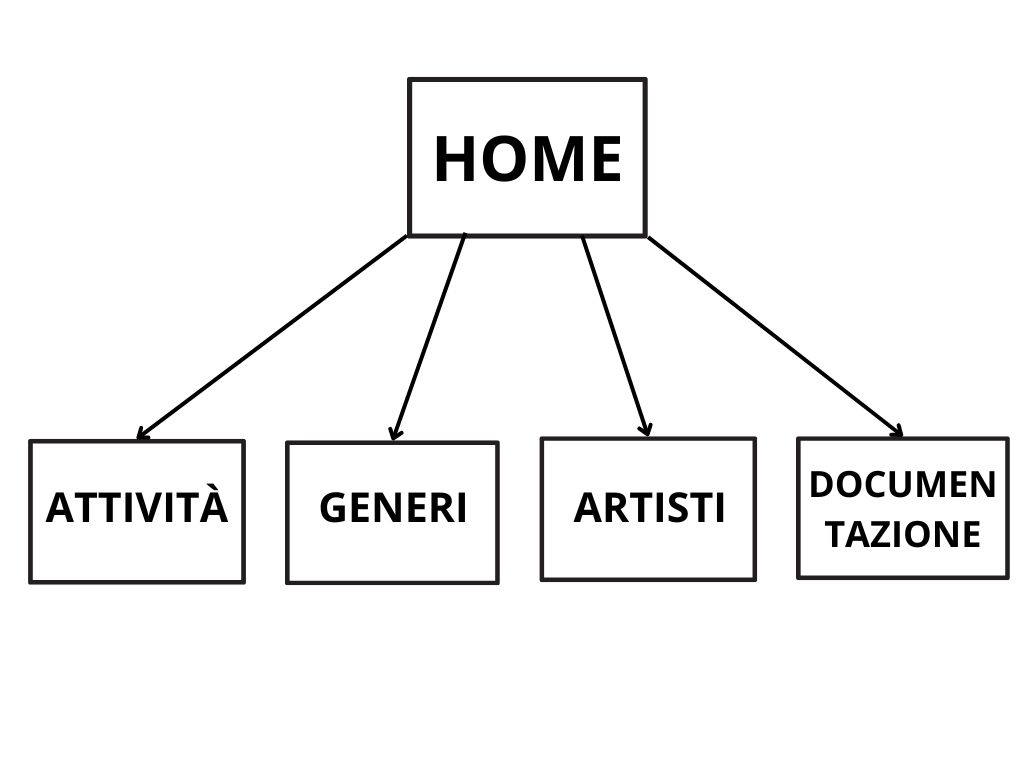
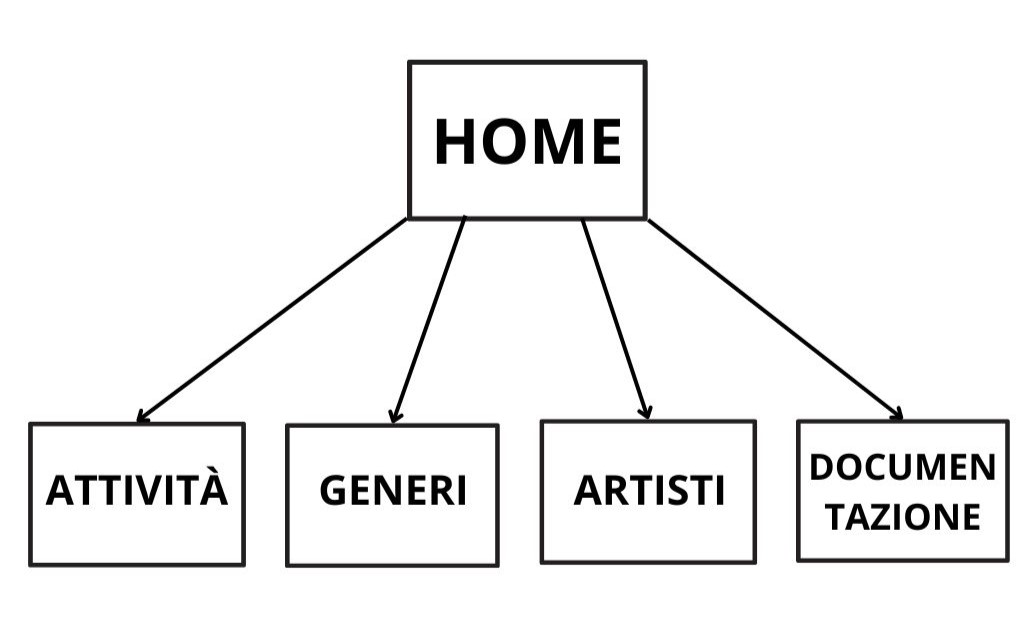
valutazione risultati aggiunta

diff --git a/documentazione.html b/documentazione.html
@@ -9,7 +9,7 @@
   })(window,document,'script','dataLayer','GTM-PKL6476');</script>
   <!-- End Google Tag Manager -->
         <title>YourMelody</title>
-        <link rel="shortcut icon" href="img/logo2.jpg" type="image/x-icon">
+        <link rel="shortcut icon" href="img/favicon.jpg" type="image/x-icon">
         <meta charset="utf">
         <!-- Bootstrap CSS -->
         <link rel="stylesheet" href="https://stackpath.bootstrapcdn.com/bootstrap/4.3.1/css/bootstrap.min.css">
@@ -62,24 +62,24 @@
             <h4>Project Management Plan</h4>
             <h5>Benchmarking</h5>
               <h6>Obiettivi e temi</h6> <p class="paragrafosize marginedocumentazione">I temi del progetto sono la musica e l'allenamento.</p>
-                <p class="paragrafosize marginedocumentazione">La scienza ha constatato che la musica è l'alleata perfetta per affrontare un allenamento. Il sito ha l'obiettivo primario di aiutare e guidare le persone in ogni fase del loro allenamento, stimolando la scelta del genere muicale più adatto ai loro gusti e al tipo di attività in corso.</p>
-                <p class="paragrafosize marginedocumentazione">Inoltre, il sito ha anche lo scopo di divulgare informazioni sull'efficacia della musica nel ridurre lo sforzo percepito e aumentare la motivazione.</p>
+                <p class="paragrafosize marginedocumentazione">La musica è l'alleata perfetta per affrontare un allenamento. Il sito ha l'obiettivo di guidare le persone in ogni fase dell'allenamento, proponendo il genere muicale più adatto ai loro gusti e al tipo di attività in corso.</p>
+                <p class="paragrafosize marginedocumentazione">Il sito ha l'ulteriore scopo di informare sull'efficacia della musica nel ridurre lo sforzo percepito e aumentare la motivazione.</p>
               <h6>Target utente</h6>
-                <p class="paragrafosize marginedocumentazione">Il sito è rivolto in particolar modo agli under 30, studenti o giovani lavoratori, a cui piace la musica e che sviluppano interesse per lo sport e per uno stile di vita sano.</p>
+                <p class="paragrafosize marginedocumentazione">Il sito è rivolto agli under 30, studenti o giovani lavoratori, che sviluppano interesse per la musica, lo sport e per uno stile di vita sano.</p>
               <h6>Competitors</h6>
-                <p class="paragrafosize marginedocumentazione">I siti più conosciuti che affrontano la medesima tematica, qualificandosi come miei competitors, sono Spotify, Deezer e Soundcloud.</p> 
+                <p class="paragrafosize marginedocumentazione">I siti più conosciuti che affrontano le tematiche musica e allenamento sono Spotify, Deezer e Soundcloud.</p> 
                 <p class="paragrafosize marginedocumentazione">I siti menzionati mettono a disposizione dell'utente playlist per il workout.</p>
-                <p class="paragrafosize marginedocumentazione">In tutti e tre i competitors la categoria "allenamento" è una delle tante e non è visibile dalla homepage: è necessaria una ricerca specifica. In Spotify e Deezer è possibile filtrare i risultati, principalmente per attività o genere musicale. Soundclound mostra soltanto le playlist che contengono "allenamento" nel proprio nominativo.</p>
-                <p class="paragrafosize marginedocumentazione">Spotify offre la possibilità di ascoltare playlist di altri oppure crearne delle proprie. Solo abbonandosi a Spotify Premium è possibile scaricare la musica, evitare la pubblicità, ascoltare qualsiasi brano anche su dispositivo mobile e avere skip illimitati (gratis è permessa la riproduzione casuale). I risultati sono personalizzati sulla base delle precedenti scelte dell'utente e la suddivisione dei brani proposta è principalmente per genere musicale.</p>
+                <p class="paragrafosize marginedocumentazione">In tutti e tre i competitors la categoria "allenamento" è una delle tante e non è visibile dalla homepage: è necessaria una ricerca specifica. In Spotify e Deezer è possibile filtrare i risultati, per attività o genere musicale. Soundclound mostra soltanto le playlist che contengono "allenamento" nel proprio nominativo.</p>
+                <p class="paragrafosize marginedocumentazione">Spotify offre la possibilità di ascoltare playlist di altri oppure crearne delle proprie. Solo abbonandosi è possibile scaricare la musica, evitare la pubblicità, ascoltare qualsiasi brano anche su dispositivo mobile e avere skip illimitati. I risultati sono personalizzati e la suddivisione dei brani proposta è principalmente per genere musicale.</p>
                 <p class="paragrafosize marginedocumentazione">In Deezer le playlist della categoria workout sono suddivise per obiettivi di allenamento, tipo di attività o genere musicale, artisti o colonne sonore dei film. Deezer Premium elimina la pubblicità, aggiunge l'ascolto offline e la scelta e l'ascolto di qualsiasi brano.</p>
                 <p class="paragrafosize marginedocumentazione">Il catalogo musicale di Soundcloud comprende musica di nicchia, di autori non conosciuti e remix. L'accesso all'offerta musicale completa è subordinato alla stipulazione di un abbonamento.</p> 
-                <p class="paragrafosize marginedocumentazione">Per valutare l'offerta dei miei competitors utilizzerò la scala Likert, che va da un punteggio minimo di 1 (per nulla soddisfacente) a un massimo di 5 (molto soddisfacente) e mi baserò su tre parametri: aspetto tematico, servizi e usabilità.</p>
-                <p class="paragrafosize marginedocumentazione">Aspetto tematico: 5, il catalogo musicale dei competitors è ampissimo; ricercando un brano si ha elevate possibilità di trovarlo.</p> 
-                <p class="paragrafosize marginedocumentazione">Servizi: 4, i servizi sono completi, efficienti e veloci, l'utente ha numerose possibilità di scelta. I servizi e le possibilità migliori sono a pagamento. </p>
-                <p class="paragrafosize marginedocumentazione">Usabilità: 2, i siti sono generalisti, molto ampi, tanto da risultare dispersivi e confusionari. A livello comunicativo i siti presentano suddivisioni sovrabbondanti, poco chiare e troppe categorie, non subito raggiungibili. Sono perfetti per chi ama ascoltare musica in generale, ma non per chi vuole utilizzarla per uno scopo preciso.</p>
+                <p class="paragrafosize marginedocumentazione">Per valutare l'offerta dei competitors utilizzerò la scala Likert, che va da un punteggio minimo di 1 (per nulla soddisfacente) a un massimo di 5 (molto soddisfacente), sulla base di tre parametri: aspetto tematico, servizi e usabilità.</p>
+                <p class="paragrafosize marginedocumentazione">Aspetto tematico: 5, il catalogo musicale è vastissimo.</p> 
+                <p class="paragrafosize marginedocumentazione">Servizi: 4, i servizi sono completi ed efficienti; i servizi migliori sono a pagamento. </p>
+                <p class="paragrafosize marginedocumentazione">Usabilità: 2, i siti sono molto ampi, tanto da risultare dispersivi. A livello comunicativo presentano troppe suddivisioni e categorie, poco chiare e non subito raggiungibili. Sono perfetti per chi ama ascoltare musica in generale, ma non per chi vuole utilizzarla per uno scopo preciso.</p>
             <h5>Struttura e layout</h5>
               <h6>Architettura del sito</h6>
-                <p class="paragrafosize marginedocumentazione">L'organizzazione del sito è ad albero. Per rendere il sito semplice e usabile, ho scelto una struttura poco profonda: dalla homepage (la radice dell'albero) si possono raggiungere tutte le altre pagine.</p>
+                <p class="paragrafosize marginedocumentazione">Per rendere il sito semplice e usabile, ho scelto di organizzare il sito in una struttura ad albero poco profonda: dalla homepage (la radice dell'albero) si possono raggiungere tutte le altre pagine.</p>
                 <section id="sectionarchitettura">
                   <img id="architettura" src="img/architetturasito.jpg" alt="struttura ad albero del sito">
                 </section>
@@ -115,40 +115,68 @@
                 </div>
                   
               <h6>Look and feel</h6>
-                <p class="paragrafosize marginedocumentazione">Le scelte grafiche hanno l'obiettivo di migliorare la leggibilità del sito.</p> 
-                <p class="paragrafosize marginedocumentazione">Ho impostato un'interlinea di 1.5; ho utilizzato un font sans serif, di impatto e semplice, per i titoli e un font serif, che agevola la lettura, per i paragrafi.</p>
+                <p class="paragrafosize marginedocumentazione">Le scelte grafiche hanno l'obiettivo di migliorare la leggibilità e l'usabilità del sito.</p> 
+                <p class="paragrafosize marginedocumentazione">Ho utilizzato un'interlinea di 1.5em, un font sans serif di impatto e semplice per i titoli e un font serif per i paragrafi per velocizzare la lettura.</p>
                 <p class="paragrafosize marginedocumentazione">Ho creato contrasto tra sfondo e scritte: mi sono servita di colori scuri (nero e viola) per le scritte e chiari (bianco e lilla) per lo sfondo. </p>
-                <p class="paragrafosize marginedocumentazione">La brand identity è creata mediante i colori lilla e viola, in modo da differenziarsi dal verde di Spotify e dall'arancione di SoundCloud.</p>
-                <p class="paragrafosize marginedocumentazione">Ho intervallato elementi testuali con elementi multimediali, come playlist, caroselli e card, allo scopo di non appesantire la lettura.</p>
+                <p class="paragrafosize marginedocumentazione">La brand identity è creata mediante il lilla e viola, in modo da differenziarsi dal verde di Spotify e dall'arancione di SoundCloud.</p>
+                <p class="paragrafosize marginedocumentazione">Ho intervallato elementi testuali con elementi multimediali, come playlist, caroselli e card.</p>
             <h5>Linguaggi e strumenti</h5>
-            <p class="paragrafosize marginedocumentazione">Ho fatto uso dei linguaggi HTML e CSS per la creazione del sito.</p>
-            <p class="paragrafosize marginedocumentazione">A supporto della progettazione web si sono rivelati utili alcuni strumenti tecnologici: le librerie di Bootstrap hanno ottimizzato la parte grafica e interattiva; l'inserimento di icone da Fontawesome ha permesso una maggiore chiarezza espositiva, l'icona Instagram ha reso intuitivo il collegamento al social media; i fonts di Google Fonts hanno migliorato l'estetica del sito; Google Analytics ha consentito di misurare l'andamento del sito; Github ha permesso la pubblicazione del sito.</p>
+            <p class="paragrafosize marginedocumentazione">Ho utilizzato i linguaggi HTML e CSS per la creazione del sito.</p>
+            <p class="paragrafosize marginedocumentazione">A supporto della progettazione web si sono rivelati utili i seguenti strumenti tecnologici: le librerie di Bootstrap hanno ottimizzato la grafica e l'interattività; le icone di Fontawesome hanno permesso una maggiore chiarezza espositiva, l'icona Instagram ha reso intuitivo il collegamento al social; i fonts di Google Fonts hanno migliorato l'estetica del sito; Google Analytics ha consentito di monitorare l'andamento del sito; Github ha permesso la pubblicazione.</p>
         </section>
         <section>
             <h4>Communication Strategy</h4>
             <h5>Background</h5>
-              <p class="paragrafosize marginedocumentazione">Ho scelto di colmare la mancanza sul mercato di un un sito specialistico, gratuito, che tratti esclusivamente di musica e allenamento, creando una guida per l'utente alla scelta del genere musicale perfetto. Quest'ultimo non si limita a mettere a disposizione delle playlist, ma offre informazioni e consigli che rendendono l'utente autonomo nelle scelte.</p>
-              <p class="paragrafosize marginedocumentazione">Consapevole che l'offerta dei miei competitors è già completa sotto l'aspetto tematico e dei servizi, ho scelto di concentrarmi sull'usabilità, loro punto debole, proponendo poche e chiare suddivisioni musicali: per attività, genere musicale e artista. Il sito si differenzia unendo la suddivisione in generi musicali e attività svolta: mostra i generi musicali migliori per un determinato tipo di attività.</p>
-              <p class="paragrafosize marginedocumentazione">Nei siti di playlist si riscontrano scelte grafiche standardizzate che ho scelto di riproporre in quanto utili per l'orientamento dell'utente: l'utilizzo di card con immagine e titolo e l'immagine che si sfoca al passarci sopra con il mouse.</p>
+              <p class="paragrafosize marginedocumentazione">Ho scelto di colmare la mancanza sul mercato di un un sito gratuito, specialistico che tratti esclusivamente di musica e allenamento, creando una guida alla scelta del genere musicale perfetto. Il sito non si limita a proporre playlist; il suo valore aggiunto sono le informazioni e i consigli che rendendono l'utente autonomo nelle scelte.</p>
+              <p class="paragrafosize marginedocumentazione">L'offerta dei miei competitors è già completa sotto l'aspetto tematico e dei servizi, perciò ho scelto di concentrarmi sull'usabilità, proponendo poche e chiare suddivisioni musicali: per attività, genere musicale e artista. Il sito si differenzia perchè unisce la suddivisione in generi musicali e attività svolta: mostra i generi musicali migliori per un determinato tipo di attività.</p>
+              <p class="paragrafosize marginedocumentazione">Nei siti di playlist si riscontrano scelte grafiche standardizzate che ho scelto di riproporre per facilitare l'orientamento dell'utente: l'utilizzo di card con immagine e titolo e l'immagine che si sfoca al passarci sopra con il mouse.</p>
             <h5>Obiettivi comunicativi</h5>
               <p class="paragrafosize marginedocumentazione">Il progetto ha lo scopo di promuovere uno stile di vita sano, incentivando quante più persone possibili a praticare sport.</p>
-              <p class="paragrafosize marginedocumentazione">Gli obiettivi in termini di comunicazione web che il progetto si prefigge è di raggiungere 100 visite al sito web, 50 like al post della pagina Instagram e 10 commenti positivi.</p>
+              <p class="paragrafosize marginedocumentazione">Gli obiettivi in termini di comunicazione web che il progetto si prefigge sono: raggiungere 100 visite al sito web, 50 like al post della pagina Instagram e 10 commenti positivi.</p>
             <h5>Target audience e messaggio</h5>
-              <p class="paragrafosize marginedocumentazione">Il target primario del sito sono gli studenti universitari. Secondo i dati Unicef, il 15% di questi ultimi ha un disturbo mentale, principalmente relativo ad ansia e depressione. Lo sport è un ottimo alleato per combattere questo problema: aumenta l'autostima e aiuta ad allentare le tensioni quotidiane.</p>
-              <p class="paragrafosize marginedocumentazione">Il target secondario sono i giovani lavoratori che si approcciano al mondo del fitness. Il sito può aiutarli a trovare la giusta motivazione per dedicare quel poco tempo che hanno a disposizione al loro benessere personale.</p>
-              <p class="paragrafosize marginedocumentazione">Il progetto prende in considerazione anche gli adulti tra i 30 e i 50 anni già appassionati di fitness, stimolandoli a riscoprire il divertimento nell'attività fisica, evitando di vedela come un'abitudine.</p>
-              <p class="paragrafosize marginedocumentazione">I social più adatti a raggiungere il target sono Instagram e Whatsapp. Secondo la statistica 2023 dei dati mondiali di Wearesocial, Instagram è il social più utilizzato dagli under 24. Whatsapp si trova al secondo posto per questa fascia d'età ed è il più utilizzato dagli adulti tra i 30 e i 50 anni.</p>
-              <p class="paragrafosize marginedocumentazione">Il messaggio che voglio trasmettere è che allenarsi non deve essere un dovere, ma può diventare un piacere, anche grazie alla giusta musica. Con la giusta motivazione, le persone possono scoprire una nuova passione, un nuovo modo di esprimersi e prendersi cura di se stessi.</p>
-              <p class="paragrafosize marginedocumentazione">Vorrei che tutti gli studenti universitari capiscano che non sono macchine perfette, ma persone in carne e ossa, con dei limiti naturali e delle emozioni.</p>
+              <p class="paragrafosize marginedocumentazione">Il target primario del sito sono gli studenti universitari. Secondo i dati Unicef, il 15% di questi ultimi ha un disturbo mentale, principalmente relativo ad ansia e depressione. Lo sport aumenta l'autostima e aiuta ad allentare le tensioni quotidiane.</p>
+              <p class="paragrafosize marginedocumentazione">Il target secondario sono i giovani lavoratori che si approcciano al mondo del fitness. Il sito può aiutarli a trovare la giusta motivazione per dedicare il poco tempo a disposizione al loro benessere personale.</p>
+              <p class="paragrafosize marginedocumentazione">Il progetto prende in considerazione anche gli adulti tra i 30 e i 50 anni già appassionati di fitness, stimolandoli a non vedere l'attività fisica come un'abitudine ma a riscoprire il divertimento.</p>
+              <p class="paragrafosize marginedocumentazione">I social più adatti a raggiungere il target sono Instagram e Whatsapp. Secondo la statistica 2023 di Wearesocial, Instagram è il social più utilizzato dagli under 24. Whatsapp si posiziona al secondo posto per questa fascia d'età e al primo per gli adulti tra i 30 e i 50 anni.</p>
+              <p class="paragrafosize marginedocumentazione">Il messaggio che voglio trasmettere è che allenarsi può diventare un piacere, anche grazie alla giusta musica: le persone possono scoprire una nuova passione, un nuovo modo di esprimersi e prendersi cura di se stessi.</p>
+              <p class="paragrafosize marginedocumentazione">Vorrei che tutti gli studenti universitari capiscano che non sono macchine perfette, ma persone con dei limiti naturali e delle emozioni.</p>
             <h5>Promozione</h5>
               <p class="paragrafosize marginedocumentazione">La promozione del sito avverrà online, modalità perfetta per raggiungere un vasto numero di persone.</p>
-              <p class="paragrafosize marginedocumentazione">Le principali informazioni sul progetto verranno fornite mediante la creazione una pagina Instagram dedicata. Per la promozione del sito e della pagina Instagram saranno pubblicate storie dal mio profilo Instagram personale, in cui posto spesso materiale inerente al mondo del fitness, e da quello del fitness influencer Savino D'Addato.</p>
-              <p class="paragrafosize marginedocumentazione">Whatsapp si rivela utile al raggiungimento dei target, in particolare grazie ai gruppi universitari.</p>
+              <p class="paragrafosize marginedocumentazione">Le principali informazioni sul progetto verranno fornite mediante la pagina Instagram dedicata. Per la promozione del sito e della pagina Instagram saranno pubblicate storie dal mio profilo Instagram personale e da quello del fitness influencer Savino D'Addato e verranno inoltrati messaggi tramite Whatsapp.</p>
             <h5>Valutazione dei risultati</h5>
+            <p class="paragrafosize marginedocumentazione">Ritengo il progetto di successo: gli obiettivi sono stati raggiunti.</p> 
+            <p class="paragrafosize marginedocumentazione">Il sito è stato visitato da 120 utenti, producendo un totale di 263 visualizzazioni. I like al post di your.melody10 sono stati 79.</p>
+            <p class="paragrafosize marginedocumentazione">Sono certa di aver raggiunto il target tramite Whatsapp, grazie ai gruppi universitari, e Instagram, dato che i miei followers e quelli di Savino D'Addato sono prevalentemente giovani studenti o lavoratori.</p>
+              <div class="container">
+                <div class="row">
+                  <div class="col-sm-12 col-lg-7 center marginewireframe">
+                    <img src="img/visiteutenti.png" id="visiteutenti" class="recensioni" alt="analytics visite">
+                  </div>
+                  <div class="col-sm-12 col-lg-5 center marginewireframe">
+                    <img src="img/likesito.jpg" id="likesito" class="recensioni" alt="like sito">
+                </div>
+                </div>
+              </div>
+              <section>
+                <p class="paragrafosize marginedocumentazione">L'obiettivo preventivato di 10 commenti positivi è stato raggiunto e da alcuni di essi capisco che il messaggio è stato colto.</p>
+              </section>
+              <div class="container">
+                <div class="row">
+                  <div class="col-sm-12 col-lg-4 center marginewireframe">
+                    <img src="img/commenti1.PNG" class="recensioni commenti" alt="commenti positivi">
+                     </div>
+                  <div class="col-sm-12 col-lg-4 center marginewireframe">
+                    <img src="img/commenti2.PNG" class="recensioni commenti" alt="commenti positivi">
+                    </div>
+                  <div class="col-sm-12 col-lg-4 center marginewireframe">
+                    <img src="img/commenti3.PNG" class="recensioni commenti" alt="commenti positivi">
+                    </div>
+              </div>
+            </div>
         </section>
         <footer class="container center">
           <div class="row">
-            <div class="col-lg-4 col-sm-12"><img id="logofooter" src="img/logo.png" alt="logo"></div>
+            <div class="col-lg-4 col-sm-12"><img class="recensioni" id="logofooter" src="img/logo.png" alt="logo"></div>
             <div class="col-lg-4 col-sm-12"><p>Seguici su</p><p><a target="_blank" href="https://www.instagram.com/your.melody10/?next=%2FS"><i class="fa-brands fa-instagram icona"></i></a></p></div>
             <div class="col-lg-4 col-sm-12"><p><a class="lillalink" href="documentazione.html">Scopri di più sul progetto</a></p></div>
           </div>

diff --git a/index.html b/index.html
@@ -9,7 +9,7 @@
   })(window,document,'script','dataLayer','GTM-PKL6476');</script>
   <!-- End Google Tag Manager -->
         <title>YourMelody</title>
-        <link rel="shortcut icon" href="img/logo2.jpg" type="image/x-icon">
+        <link rel="shortcut icon" href="img/favicon.jpg" type="image/x-icon">
         <meta charset="utf">
         <!-- Bootstrap CSS -->
         <link rel="stylesheet" href="https://stackpath.bootstrapcdn.com/bootstrap/4.3.1/css/bootstrap.min.css">
@@ -166,13 +166,13 @@
               <div class="carousel-item active">
                 <img src="img/lilla.jpg" class="d-block w-100 recensioni" alt="...">
                 <div class="carousel-caption d-none d-md-block">
-                  <h3>RECENSIONI</h3><p class="paragrafosize">Fammi sapere cosa pensi del sito e lo scriverò qui!</p>
+                  <h3>ERCOLE</h3><p class="paragrafosize">"Sito super completo che riesce a districare il groviglio di playlist create dai vari servizi musicali, permettendo a chi vuole avviare un percorso di fitness di concentrarsi senza perdere ore a cercare la musica giusta."</p>
                 </div>
               </div>
               <div class="carousel-item">
                 <img src="img/lilla.jpg" class="d-block w-100 recensioni" alt="...">
                 <div class="carousel-caption d-none d-md-block">
-                  <h3>RECENSIONI</h3><p class="paragrafosize">Fammi sapere cosa pensi del sito e lo scriverò qui!</p>
+                  <h3>SAVINO</h3><p class="paragrafosize">"Ottima idea, nonostante io faccia palestra da anni sono riuscito a scoprire nuove canzoni che mi caricano ancora di più"</p>
                 </div>
               </div>
               <div class="carousel-item">
@@ -194,7 +194,7 @@
       </div>
         <footer class="container center">
           <div class="row">
-            <div class="col-lg-4 col-sm-12"><img id="logofooter" src="img/logo.png" alt="logo"></div>
+            <div class="col-lg-4 col-sm-12"><img class="recensioni" id="logofooter" src="img/logo.png" alt="logo"></div>
             <div class="col-lg-4 col-sm-12"><p>Seguici su</p><p><a target="_blank" href="https://www.instagram.com/your.melody10/?next=%2FS"><i class="fa-brands fa-instagram icona"></i></a></p></div>
             <div class="col-lg-4 col-sm-12"><p><a class="lillalink" href="documentazione.html">Scopri di più sul progetto</a></p></div>
           </div>

diff --git a/attività.html b/attività.html
@@ -9,7 +9,7 @@
   })(window,document,'script','dataLayer','GTM-PKL6476');</script>
   <!-- End Google Tag Manager -->
         <title>YourMelody</title>
-        <link rel="shortcut icon" href="img/logo2.jpg" type="image/x-icon">
+        <link rel="shortcut icon" href="img/favicon.jpg" type="image/x-icon">
         <meta charset="utf">
         <!-- Bootstrap CSS -->
         <link rel="stylesheet" href="https://stackpath.bootstrapcdn.com/bootstrap/4.3.1/css/bootstrap.min.css">
@@ -170,7 +170,7 @@
           </div>
         <footer class="container center">
             <div class="row">
-              <div class="col-lg-4 col-sm-12"><img id="logofooter" src="img/logo.png" alt="logo"></div>
+              <div class="col-lg-4 col-sm-12"><img class="recensioni" id="logofooter" src="img/logo.png" alt="logo"></div>
               <div class="col-lg-4 col-sm-12"><p>Seguici su</p><p><a target="_blank" href="https://www.instagram.com/your.melody10/?next=%2FS"><i class="fa-brands fa-instagram icona"></i></a></p></div>
               <div class="col-lg-4 col-sm-12"><p><a class="lillalink" href="documentazione.html">Scopri di più sul progetto</a></p></div>
             </div>

diff --git a/generi.html b/generi.html
@@ -9,7 +9,7 @@
   })(window,document,'script','dataLayer','GTM-PKL6476');</script>
   <!-- End Google Tag Manager -->
         <title>YourMelody</title>
-        <link rel="shortcut icon" href="img/logo2.jpg" type="image/x-icon">
+        <link rel="shortcut icon" href="img/favicon.jpg" type="image/x-icon">
         <meta charset="utf">
         <!-- Bootstrap CSS -->
         <link rel="stylesheet" href="https://stackpath.bootstrapcdn.com/bootstrap/4.3.1/css/bootstrap.min.css">
@@ -216,7 +216,7 @@
         </div>
         <footer class="container center">
             <div class="row">
-              <div class="col-lg-4 col-sm-12"><img id="logofooter" src="img/logo.png" alt="logo"></div>
+              <div class="col-lg-4 col-sm-12"><img class="recensioni" id="logofooter" src="img/logo.png" alt="logo"></div>
               <div class="col-lg-4 col-sm-12"><p>Seguici su</p><p><a target="_blank" href="https://www.instagram.com/your.melody10/?next=%2FS"><i class="fa-brands fa-instagram icona"></i></a></p></div>
               <div class="col-lg-4 col-sm-12"><p><a class="lillalink" href="documentazione.html">Scopri di più sul progetto</a></p></div>
             </div>

diff --git a/artisti.html b/artisti.html
@@ -9,7 +9,7 @@
   })(window,document,'script','dataLayer','GTM-PKL6476');</script>
   <!-- End Google Tag Manager -->
         <title>YourMelody</title>
-        <link rel="shortcut icon" href="img/logo2.jpg" type="image/x-icon">
+        <link rel="shortcut icon" href="img/favicon.jpg" type="image/x-icon">
         <meta charset="utf">
         <!-- Bootstrap CSS -->
         <link rel="stylesheet" href="https://stackpath.bootstrapcdn.com/bootstrap/4.3.1/css/bootstrap.min.css">
@@ -149,7 +149,7 @@
         </section>
         <footer class="container center">
           <div class="row">
-            <div class="col-lg-4 col-sm-12"><img id="logofooter" src="img/logo.png" alt="logo"></div>
+            <div class="col-lg-4 col-sm-12"><img class="recensioni" id="logofooter" src="img/logo.png" alt="logo"></div>
             <div class="col-lg-4 col-sm-12"><p>Seguici su</p><p><a target="_blank" href="https://www.instagram.com/your.melody10/?next=%2FS"><i class="fa-brands fa-instagram icona"></i></a></p></div>
             <div class="col-lg-4 col-sm-12"><p><a class="lillalink" href="documentazione.html">Scopri di più sul progetto</a></p></div>
           </div>

diff --git a/css/style.css b/css/style.css
@@ -254,7 +254,7 @@ img:hover {
 }
 
 #architettura {
-    height: 400px;
+    height: 350px;
 }
 
 #sectionarchitettura {
@@ -271,4 +271,16 @@ img:hover {
 
 .marginewireframe {
     margin-top: 2%;
+}
+
+#visiteutenti {
+    width: 650px;
+}
+
+#likesito {
+    height: 400px;
+}
+
+.commenti {
+    width: 300px;
 }
